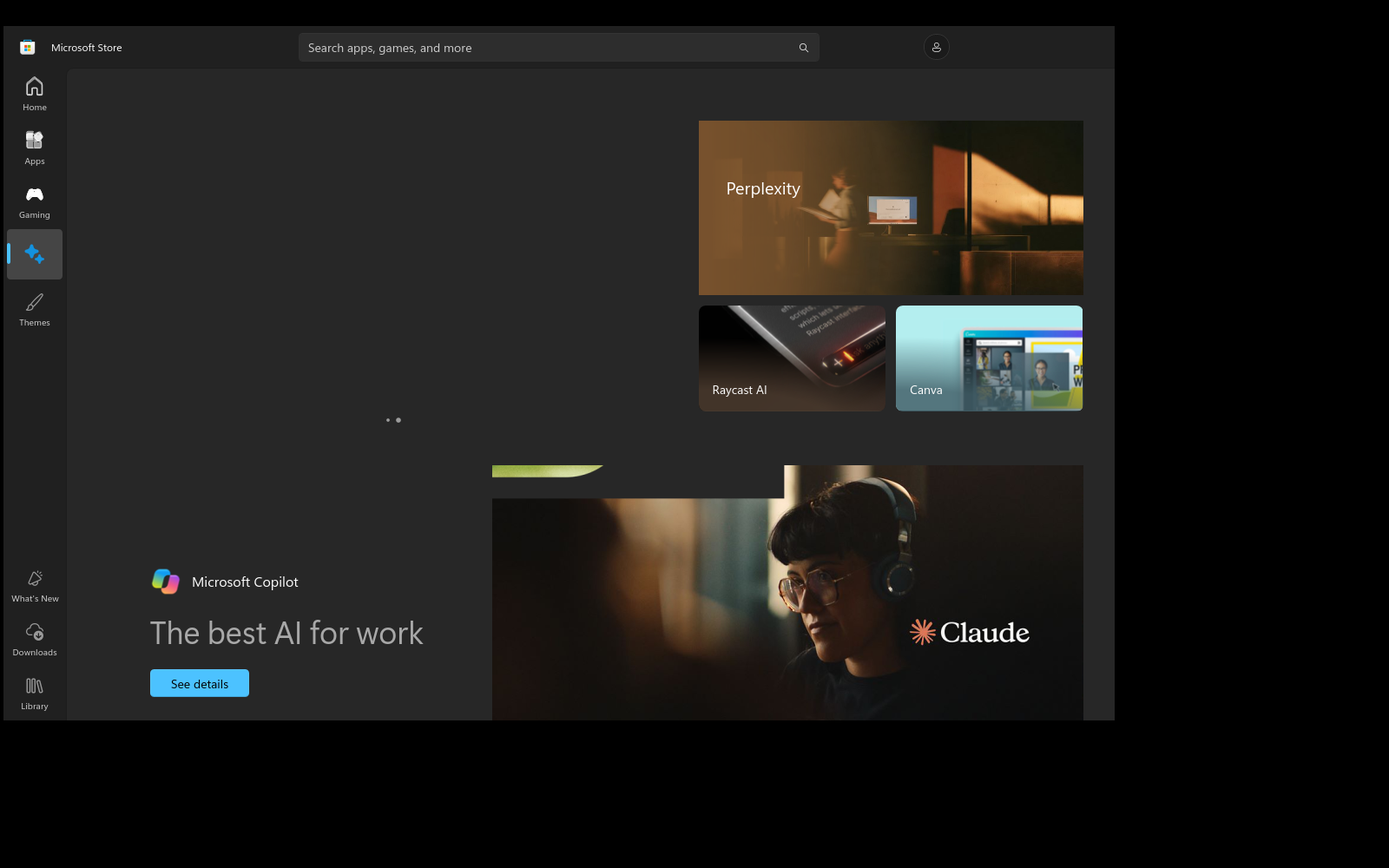
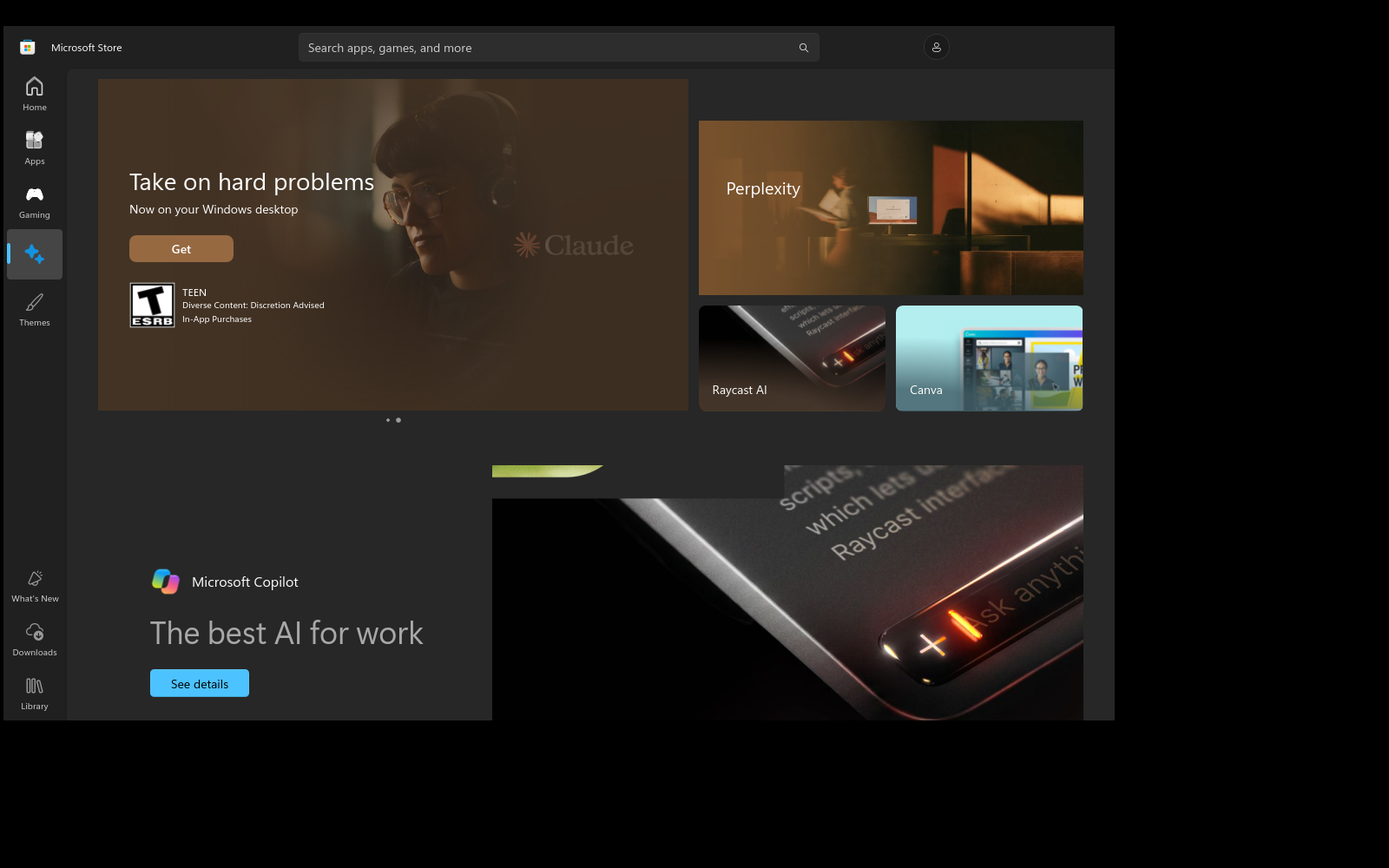
dcomp: The Microsoft Store's Apps, Gaming and AI Hub hero carousels draw.
Their pages were clipped to nothing: the clip read rootProperties.ActualWidth,
whose expression failed on this.Target under the clip, and on the
InteractionTracker it references. The page turn now lands too.

diff --git a/wine/dlls/dcomp/composition.c b/wine/dlls/dcomp/composition.c
@@ -2282,6 +2282,8 @@ struct kf_animation
     INT32 iteration_behavior, stop_behavior, direction, delay_behavior;
     INT32 iterations;
     void *timeline;             /* XAML's clock for it (an anim_instance, SetCustomTimeline), or NULL */
+    ICompositionPropertySet *properties; /* CompositionObject.Properties, kept: expression keys read "this.<name>" from it */
+    WCHAR last_expr[64];        /* the text of the last expression key inserted */
 };
 static struct kf_animation *kf_animation_from( void *animation );
 static BOOL kf_sample( struct kf_animation *kf, float progress, struct kf_key *out );
@@ -3338,6 +3340,9 @@ static HRESULT comp_object_slot_call( unsigned slot, void *iface, void *a, void 
 
     TRACE( "%s %p slot %u a %p b %p from %p: ignored.\n", object->kind, object, slot, a, b,
            __builtin_return_address( 0 ) );
+    if (object->vtbl == (const void **)kf_animation_vtbl && slot >= 7 && slot <= 16)
+        FIXME( "key frame animation %p: ICompositionAnimation slot %u, key %s, ignored.\n", object, slot,
+               debugstr_hstring( a ) );
     /* Fill the out-pointer with a recording object. Preserve a typed object's method layout across
      * private-interface getters: XAML asks an ExpressionAnimation for an internal animation object
      * before it calls ICompositionAnimationBase::CreateAnimatorPartner (slot 3) on that child. */
@@ -14281,7 +14286,7 @@ static HRESULT WINAPI kfa_InsertExpressionKeyFrame( void *iface, float key, HSTR
     BOOL starting = text && !wcsicmp( text, L"this.StartingValue" );
 
     if (!starting)
-        FIXME( "key %f, expression %s: expression key frames are not evaluated.\n", key, debugstr_hstring( expression ) );
+        FIXME( "%p key %f, expression %s: expression key frames are not evaluated.\n", impl, key, debugstr_hstring( expression ) );
     impl->key_count++;
     if (impl->key_count <= KF_KEYS)
     {
@@ -14290,6 +14295,7 @@ static HRESULT WINAPI kfa_InsertExpressionKeyFrame( void *iface, float key, HSTR
         k->key = key;
         k->expr = starting ? KF_EXPR_STARTING : KF_EXPR_OTHER;
     }
+    lstrcpynW( impl->last_expr, text ? text : L"", ARRAY_SIZE(impl->last_expr) );
     return S_OK;
 }
 static HRESULT WINAPI kfa_InsertExpressionKeyFrameWithEasingFunction( void *iface, float key, HSTRING expression,
@@ -14575,7 +14581,9 @@ static void kf_release_paths( struct comp_object *object )
     struct kf_animation *kf = CONTAINING_RECORD( object, struct kf_animation, vtbl );
     unsigned int i;
 
-    if (object->vtbl != (const void **)kf_animation_vtbl || kf->value_kind != KF_PATH) return;
+    if (object->vtbl != (const void **)kf_animation_vtbl) return;
+    if (kf->properties) ICompositionPropertySet_Release( kf->properties );
+    if (kf->value_kind != KF_PATH) return;
     for (i = 0; i < min( kf->key_count, KF_KEYS ); i++)
         if (kf->keys[i].u.path) IUnknown_Release( kf->keys[i].u.path );
 }
@@ -16037,6 +16045,7 @@ static struct matrix_transform *manip_matrix_from_animation( void *animation )
     return manip_matrix_from_object( (IUnknown *)animation, 0 );
 }
 static struct property_set *propset_from_object( IUnknown *object );
+static struct property_set *tracker_property_set( IUnknown *object );
 static struct expr_animation *expr_animation_from_any( void *animation )
 {
     void **vtbl = animation ? *(void ***)animation : NULL;
@@ -16212,6 +16221,8 @@ static BOOL expr_scalar_sum( struct expr_ctx *c, float *out );
  * "ValuePropSet.v + ValuePropSet.o" and animates v; the static value is only where the property started. */
 static BOOL expr_bound_scalar( struct expr_ctx *c, const WCHAR *ref, const WCHAR *prop, float *out )
 {
+    struct comp_clip *saved_clip;
+    BOOL ok;
     struct property_set *set = NULL;
     unsigned int i;
 
@@ -16233,8 +16244,29 @@ static BOOL expr_bound_scalar( struct expr_ctx *c, const WCHAR *ref, const WCHAR
         sub.dmanip = NULL;
         sub.p = bound->expression;
         sub.depth = c->depth + 1;
-        if (!expr_scalar( &sub, out )) return FALSE;
+        /* a clip's edge reading "rootProperties.ActualWidth": the set's own expression knows no clip, and its
+         * "this.Target" is the set (the Microsoft Store's Apps hero: "Lerp(visual.Size.X, this.Target.CollapsedWidth,
+         * ...)" failed on the clip's Left/Top/Right/Bottom, and the page got a zero-width clip) */
+        saved_clip = expr_this_clip;
+        expr_this_clip = NULL;
+        ok = expr_scalar( &sub, out );
+        expr_this_clip = saved_clip;
+        if (!ok)
+        {
+            TRACE_(dcompanim)( "set %p %s: %s not evaluated, stopped at %s\n", set, debugstr_w( prop ),
+                               debugstr_w( bound->expression ), debugstr_w( sub.p ) );
+            if (TRACE_ON(dcompanim))
+            {
+                unsigned int k;
+                for (k = 0; k < bound->ref_count; k++)
+                    TRACE_(dcompanim)( "  ref %s = %p (vtbl %p)\n", debugstr_w( bound->ref_names[k] ), bound->refs[k],
+                                       bound->refs[k] ? *(void **)bound->refs[k] : NULL );
+            }
+            return FALSE;
+        }
         expr_skip_space( &sub );
+        TRACE_(dcompanim)( "set %p %s = %g (%s)%s\n", set, debugstr_w( prop ), *out, debugstr_w( bound->expression ),
+                           *sub.p ? " trailing" : "" );
         return !*sub.p;
     }
     return FALSE;
@@ -16675,6 +16707,8 @@ static struct property_set *propset_from_object( IUnknown *object )
     if (vtbl == (void **)object_view_vtbl) return propset_from_object( impl_from_object_view( object )->owner );
     /* a reference set through its IAnimationObject (ICompositionAnimation4::SetExpressionReferenceParameter) */
     if (vtbl == (void **)anim_object_view_vtbl) return propset_from_object( ((struct anim_object_view *)object)->owner );
+    /* "_interactionTracker.Position.X": a tracker's values and the app's own properties are in its property set */
+    if ((set = tracker_property_set( object ))) return set;
     /* "_.Progress": an expression referencing a visual reads that visual's Properties */
     if (SUCCEEDED( IUnknown_QueryInterface( object, &IID_IInteropVisual_private, &interop ) ))
     {
@@ -22570,6 +22604,20 @@ static HRESULT WINAPI object_view_get_Properties( void *iface, ICompositionPrope
         ICompositionPropertySet_AddRef( (*value = expr->properties) );
         return S_OK;
     }
+    /* a key-frame animation's too: the Microsoft Store's hero carousel inserts TargetValue there and animates its
+     * tracker to "this.TargetValue" */
+    if (view->owner && *(void ***)view->owner == (void **)kf_animation_vtbl)
+    {
+        struct kf_animation *kf = CONTAINING_RECORD( view->owner, struct kf_animation, vtbl );
+        if (!kf->properties)
+        {
+            if (FAILED(hr = create_property_set( &set ))) return hr;
+            if (InterlockedCompareExchangePointer( (void **)&kf->properties, set, NULL ))
+                ICompositionPropertySet_Release( set );
+        }
+        ICompositionPropertySet_AddRef( (*value = kf->properties) );
+        return S_OK;
+    }
     if (!view->properties)
     {
         if (FAILED(hr = create_property_set( &set ))) return hr;
@@ -23570,7 +23618,7 @@ static HRESULT WINAPI interactions_QueryInterface( void *iface, REFIID iid, void
      * ResponsiveItemsRepeaterList casts its tracker to one */
     if (IsEqualGUID( iid, &IID_IAnimationObject_local ))
         return create_anim_object_view( (IUnknown *)&object->vtbl, out );
-    FIXME( "%s: no interface %s.\n", object->kind, debugstr_guid( iid ) );
+    FIXME( "%s: no interface %s (caller %p).\n", object->kind, debugstr_guid( iid ), __builtin_return_address( 0 ) );
     *out = NULL;
     return E_NOINTERFACE;
 }
@@ -23714,8 +23762,14 @@ static const void *sources_vtbl[] =
 static void tracker_sync_properties( struct interactions_object *tracker )
 {
     static const WCHAR positionW[] = L"Position", scaleW[] = L"Scale", minW[] = L"MinPosition", maxW[] = L"MaxPosition";
+    static const WCHAR restingW[] = L"NaturalRestingPosition";
     HSTRING str;
     if (!tracker->properties) return;
+    if (SUCCEEDED( WindowsCreateString( restingW, ARRAY_SIZE(restingW) - 1, &str ) ))
+    {
+        ICompositionPropertySet_InsertVector3( tracker->properties, str, tracker->natural_position );
+        WindowsDeleteString( str );
+    }
     if (SUCCEEDED( WindowsCreateString( positionW, ARRAY_SIZE(positionW) - 1, &str ) ))
     {
         ICompositionPropertySet_InsertVector3( tracker->properties, str, tracker->position );
@@ -23858,6 +23912,8 @@ static void tracker_set_position( struct interactions_object *tracker, Vector3 v
     tracker->position.X = clampf( value.X, tracker->min_position.X, tracker->max_position.X );
     tracker->position.Y = clampf( value.Y, tracker->min_position.Y, tracker->max_position.Y );
     tracker->position.Z = clampf( value.Z, tracker->min_position.Z, tracker->max_position.Z );
+    /* no inertia here: where it is is where it comes to rest */
+    tracker->natural_position = tracker->position;
 }
 
 static HRESULT WINAPI tracker_get_InteractionSources( void *iface, void **value )
@@ -23931,6 +23987,27 @@ static HRESULT WINAPI tracker_TryUpdatePositionBy( void *iface, Vector3 amount, 
     Vector3 value = { tracker->position.X + amount.X, tracker->position.Y + amount.Y, tracker->position.Z + amount.Z };
     return tracker_TryUpdatePosition( iface, value, request );
 }
+/* The last key of a key-frame animation is the expression "this.<name>", and its own Properties hold a Vector3
+ * of that name: where the animation ends. */
+static BOOL kf_vector3_from_this( struct kf_animation *kf, Vector3 *out )
+{
+    struct property_set *set;
+    const WCHAR *name;
+    unsigned int i;
+
+    if (!kf->key_count || kf->keys[min( kf->key_count, KF_KEYS ) - 1].expr != KF_EXPR_OTHER) return FALSE;
+    if (wcsnicmp( kf->last_expr, L"this.", 5 ) || !kf->properties) return FALSE;
+    name = kf->last_expr + 5;
+    if (!*name || wcspbrk( name, L". +-*/()" )) return FALSE;
+    set = CONTAINING_RECORD( kf->properties, struct property_set, ICompositionPropertySet_iface );
+    for (i = 0; i < set->value_count; i++)
+        if (!wcsicmp( set->values[i].name, name ) && set->values[i].type == PROP_VECTOR3)
+        {
+            *out = set->values[i].u.vector3;
+            return TRUE;
+        }
+    return FALSE;
+}
 static HRESULT WINAPI tracker_TryUpdatePositionWithAnimation( void *iface, void *animation, INT32 *request )
 {
     struct interactions_object *tracker = interactions_from( iface );
@@ -23952,6 +24029,12 @@ static HRESULT WINAPI tracker_TryUpdatePositionWithAnimation( void *iface, void 
         !kf->keys[min( kf->key_count, KF_KEYS ) - 1].expr)
     {
         TRACE( "%p animation %p: lands at %g,%g,%g.\n", tracker, animation, key.u.vector3.X, key.u.vector3.Y, key.u.vector3.Z );
+        tracker_set_position( tracker, key.u.vector3 );
+    }
+    else if (kf && kf->value_kind == KF_VECTOR3 && kf_vector3_from_this( kf, &key.u.vector3 ))
+    {
+        TRACE( "%p animation %p: lands at %s = %g,%g,%g.\n", tracker, animation, debugstr_w( kf->last_expr ),
+               key.u.vector3.X, key.u.vector3.Y, key.u.vector3.Z );
         tracker_set_position( tracker, key.u.vector3 );
     }
     else
@@ -24016,6 +24099,16 @@ static const void *tracker_vtbl[] =
     tracker_TryUpdateScaleWithAdditionalVelocity,
 };
 
+/* An InteractionTracker's property set: its own values (tracker_sync_properties) and whatever the app inserted */
+static struct property_set *tracker_property_set( IUnknown *object )
+{
+    struct interactions_object *tracker;
+
+    if (!object || *(const void ***)object != (const void **)tracker_vtbl) return NULL;
+    tracker = interactions_from( object );
+    if (!tracker->properties || *(void ***)tracker->properties != (void **)&propset_vtbl) return NULL;
+    return CONTAINING_RECORD( tracker->properties, struct property_set, ICompositionPropertySet_iface );
+}
 static HRESULT create_interaction_tracker( IUnknown *owner, void **out )
 {
     struct interactions_object *tracker;

diff --git a/AGENTS.md b/AGENTS.md
@@ -1293,7 +1293,7 @@ the fully-qualified name. `--grep` first, always.
 | Xbox app (GamingApp) | Staged as `xbox`. On the **builtin** `windows.web` (no native Windows.Web.dll) it reaches its own home screen after **Browse app** on the sign-in gate (`docs/screenshots/xbox-home-builtin-windows-web.png`). Gaming Services and Windows.System.User are stand-ins. Still open: the nav icons for My Library, Cloud Gaming and Store, the faded banners, sign-in, and the Store hero video. Findings-M4 2026-10-14 (night). **Sign in** (10-15): `dlls/winexboxauth` (C++ `shims/xboxauth` until 10-21; traces `WINEDEBUG=+xboxauth`) stands in for `XboxAuthManager` with a Microsoft account device-code sign-in in the user's browser (`microsoft.com/link?otc=<code>`) and real Xbox Live user/XSTS tokens; verified up to the device code and the browser launch, the account step needs a human. Refresh token in `%LOCALAPPDATA%\wineuwp\xboxauth.bin`. Findings-M4 2026-10-15. **Requests are signed** (10-15, ported from xal-rs): a per-prefix P-256 proof key, a real device token, SISU authorize, device/title-bound XSTS and a `Signature` on every token request with a policy; the signing is proven against `device.auth.xboxlive.com` (signed 200, unsigned 400, one bit flipped 403). SISU with a real account works (10-15, Android device token). **Store account and Gaming Services** (10-15): `dlls/winexboxauth` also serves `WebAuthenticationCoreManager` and `StoreConfiguration` (the Store account is the same Microsoft account; its WebAccount.Id is the PUID), so Settings > Account has no mismatch; `dlls/winegameplatform` (C++ `shims/gameplatform` until 10-21; traces with `WINEDEBUG=+gameplatform`) covers every Gaming Services client class (traced, table from `gen-gameplatform.py`) with install locations, update settings, `Package.Create`, `Store.QueryProductDetails` and content access, so Install Options loads and game pages show Get/Buy. Findings-M4 2026-10-15 (Store account). **Friends list and bright game pages** (10-15, dcomp facade expressions, dwrite). **Installs and plays a game** (10-15 night): Get opens the real Store purchase dialog through a WebView2 runtime from the ISO (`dlls/webview2host`, C++ `shims/webview2` until 10-21, hosts it windowed in a popup; traces `WINEDEBUG=+webview2`; shown on screen and closable on 10-21, `docs/screenshots/xbox-purchase-dialog-on-screen.png` - an earlier "black on screen" was `xwd -root` misreading the popup, see the capture trap below), Install downloads through FE3 and `install-app.py` into `uwp-bin/xbox-games/stage`, the page shows Downloading then Play, and Play starts Microsoft Solitaire Collection 4.27 (`docs/screenshots/xbox-install-downloading.png`, `xbox-install-ready-to-play.png`, `xbox-play-launches-solitaire.png`). Run the Xbox app with plain `err+all` when testing Play: the game inherits `WINEDEBUG`, and `trace+tracelogging` makes Solitaire fault. Open: library box art. Pause/Resume retains the queue row, displays Download paused and offers Resume; three virtual-desktop UI cycles preserve offsets with stable installation/package identities. Queued Package.QueryDetails must return unregistered, not fully streamed metadata: GP_E_NO_SERVICE there aborts the native paused-state update (Findings-M4 2026-10-16, paused-row investigation). `install-app.py` now locks staging per package and cleans only its own scratch entry, preventing failed installs from deleting another install's work. A synthetic stale-file repro and virtual Halo install passed the former failure point; the queue reached Download paused and Resume worked at 31% (`docs/screenshots/xbox-install-staging-paused.png`; Findings-M4 2026-10-16, install error). The desktop app was relaunched with the rebuilt shim on 10-16. Premium, Game Pass and direct Win2D geometry marks now share bounded supersampling; scaled composition surfaces use source-footprint filtering. Verified on virtual desktops with fill/stroke, clip/transform/DPI probes; the tested D2D/DComp DLLs are in the standard Wine build. Desktop Home was visually confirmed after relaunch with these DLLs (Findings-M4 2026-10-16, Game Pass). **Manage > Add-ons Apply changes** (10-16): fixed the installed-drive lookup. Package.QueryInstallPath returns Z:, but storage enumeration previously exposed only C:, so the React Native Apply callback returned at its installed-drive Content guard. Storage now exposes the actual host data drive and filters content by device. Two virtual UI runs select Campaign, close Manage on Apply and queue PackageRequest.ConfigureFeatures(CampaignS1); this uses StartItemInstall, not PackageUpdate.StartUpdateAsync. Tested at 0 B, paused and canceled rather than downloading the whole payload (`docs/screenshots/xbox-campaign-apply-queued-paused.png`). General's update-priority control also loads and persists through Customization.QueryGameProps/SetGameProps (`docs/screenshots/xbox-game-priority-persisted.png`). **Cancellation** (10-16): cancel now signals the real host Python PID and waits for the shell EXIT record; terminating only the Wine launcher had left a paused Python child alive. The virtual UI cancel test emptied the queue, logged EXIT 143 and confirmed that exact Python PID was gone (`docs/screenshots/xbox-campaign-change-canceled.png`). The host installer reports its PID only for installs; --info remains JSON. Findings-M4 2026-10-16 (Apply/host cancellation). **MSIXVC (GDK) packages**: the package list, CDN download, content keys (our own Windows device licence, `dlls/winexboxauth/windevice.c`) and our GDK runtime all work: see the Bad Magpie and Halo rows. Xodus was only a protocol reference and is no longer kept here; the Xodus Nexus launcher was tried on 10-19 and dropped (it plays only from its own streaming container). Findings-M4 2026-10-15 (night) |
 | Halo Infinite (GDK, Xbox app install) | **Campaign plays without HD1** (10-18, `docs/screenshots/halo-campaign-in-game.png`): launch with `UWP_STAGE=254428597cfe2 WINE_BUILD=uwp-bin/wine-build-wow64 WINE_HACK_NATIVE_SYSCALLS=1` on `uwp-bin/prefix-pause-ui30`, title -> Campaign -> New Game -> map. **Multiplayer matchmakes and plays online** (`docs/screenshots/halo-multiplayer-in-match.png`). Sign-in uses the Store account; the Store-user mismatch notice at start-up is still open. Findings-M4 2026-10-18. **From a fresh prefix** (10-19, `docs/screenshots/halo-fresh-prefix-main-menu.png`): `new-prefix.sh`, Xbox app install, `install-d3d-runtime.sh`, then Play (`wineuwp-launch.exe`) reaches the online main menu with no hand-made files |\n| Bad Magpie Demo (GDK, Game Pass) | **Installs from the Xbox app and runs, in game** (10-15, `docs/screenshots/badmagpie-gdk-running.png`): the first GDK title on Linux here. The `.msixvc` comes from `packagespc.xboxlive.com` (signed XBL request), its content key from our own Windows device licence and `licensing.mp.microsoft.com` (`dlls/winexboxauth/windevice.c`), and the installer (`dlls/appxinstall`, called by `dlls/winegameplatform`; formerly `install-app.py`) decrypts the XVD (XTS per 4096-byte page, data unit from the L0 hash entry) and lays the files out from `SegmentMetadata.bin`. Reinstalled through the C installer on 10-19 (`docs/screenshots/badmagpie-c-installer-running.png`). EAppx (Resident Evil 7) uses the same licence path and the EXBH/EXPH reader; its install is not yet run end to end. **The device registration takes a slot in the account's device group (it was full once); one per prefix, kept in `xboxauth.bin`** |
 | Packaging | **One AppImage**, in the separate `../shapr3d-linux` repo since 10-11 (github.com/designgears/shapr3d-linux; its README; the runtime it carries is `packaging/` here). Bottles was dropped on 10-11. One freedesktop SDK build (flatpak-builder) makes both the AppImage and a Flatpak bundle (`io.github.designgears.Shapr3DLinux`), both attached to each release; glibc 2.38 floor. The installer is Rust + Slint, styled after Shapr3D, with no secondary text (`../shapr3d-linux/docs/screenshots/installer/`); the AppImage was re-run on 10-11 from an empty data directory with the real ISO download and the real Shapr3D bundle, to the sign-in screen on `:0`. `appimage/smoke.sh` sets an AppImage up from an empty data directory on its own Xvfb and requires Shapr3D's first screen (passed on 10-11 in 27 s). Opening the AppImage (or `wine-uwp` with no command) shows the installer, which once set up is the launcher: version, Launch and Update... (pick a newer package; `wine-uwp setup PACKAGE` on an installed setup goes straight there). The package may be the vendor's `.appinstaller` (Shapr3D's download page hands one out): only its main bundle is used, read from the server with range requests (1.8 GB streamed in ~50 s, no temporary file), never its `<Dependencies>`; frameworks always come from the ISO, falling back to an older version than the package asks for. Its URI is kept in `stage/APP/.wine-uwp-appinstaller`, and the launcher page offers `Update to X` when it serves a newer version. **Shapr3D 26.180 needs VCLibs 14.0.33728 (STL 14.40, constexpr `std::mutex`); the ISO's 14.0.30704 `msvcp140_app` NULL-derefs in `_Mtx_lock`.** Our Wine builds `msvcp140_app` from msvcp140's sources and `launch-defaults.env` sets `msvcp140_app=b` (Calculator AE 0 and `kb` identical on it). An update unpacks to `stage/APP.new` and swaps it in at the end, refuses while the app's run lock is held, and keeps sign-in and projects (they live in the prefix under the package family name). The menu entry (`run APP`) is written on install and refreshed each time the installer opens. A plain `wine wineuwp-launch.exe` starts an installed app with no `run.sh`. Released through `release.sh` up to 0.0.3-beta (10-12), which the user checked on `:0`: launch, browser sign-in, update. **An AppImage started from inside another (the launcher's Launch is `$APPIMAGE run`) must not re-save the host environment**: in 0.0.2 it saved the launcher's bundled paths, xdg-open then got a dead mount's libraries, and the app ran on the system Wine and outlived its wineserver as a windowless orphan holding the run lock. `AppRun` keeps the first `WINE_UWP_HOST_*`. `wine-uwp stop` closes a running app through `logs/.APP.stop` |
-| Microsoft Store | Staged as `store` (prefix `uwp-bin/prefix-store`, build `uwp-bin/wine-build-wow64`, the Media Player switches). **Updates itself in-app**: Library > Get updates goes through `shims/appinstallmanager` (catalogue + FE3 + `appxinstall.dll` into its own stage; 22401 -> 22609 again on 10-20, `docs/screenshots/msstore-c-installer-updated.png`) and installed 22608.1401.7.0 over the ISO's 22401 (old stage kept as `stage/store.pre-update-22401`). 22608's Home page paints real content (`docs/screenshots/msstore-22608-home.png`); start-up takes ~2-3 minutes; Apps, Gaming and AI Hub load since 10-25 (Wine's xmllite read UTF-16 input twice from the second chunk on, and XAML parses `XamlReader.Load` text as UTF-16: `docs/screenshots/msstore-22608-apps-page.png`); their left hero carousel is still empty. Findings-M4 2026-10-19 **Home (10-25)**: nav rail Lottie icons, app tile icons, hero cards and hero picture drawn (CompositionVisualSurface, effect brushes, clip edge expressions, step easing, simple geometries, path animations in dcomp). Blank starts (~1 in 5) fixed in wineuwp (`in_app_code`). Home now matches Windows (`docs/screenshots/msstore-22608-home-complete.png`). Test with `uwp-bin/wine-build-store` until merged into the shared builds. Findings-M4 2026-10-25 |
+| Microsoft Store | Staged as `store` (prefix `uwp-bin/prefix-store`, build `uwp-bin/wine-build-wow64`, the Media Player switches). **Updates itself in-app**: Library > Get updates goes through `shims/appinstallmanager` (catalogue + FE3 + `appxinstall.dll` into its own stage; 22401 -> 22609 again on 10-20, `docs/screenshots/msstore-c-installer-updated.png`) and installed 22608.1401.7.0 over the ISO's 22401 (old stage kept as `stage/store.pre-update-22401`). 22608's Home page paints real content (`docs/screenshots/msstore-22608-home.png`); start-up takes ~2-3 minutes; Apps, Gaming and AI Hub load since 10-25 (Wine's xmllite read UTF-16 input twice from the second chunk on, and XAML parses `XamlReader.Load` text as UTF-16: `docs/screenshots/msstore-22608-apps-page.png`); their hero carousels draw (InteractionTracker property sets in expressions, key-frame animations' own Properties). Their right-hand card column sits 48 px low, and Gaming's lower panel stays a skeleton. Findings-M4 2026-10-19 **Home (10-25)**: nav rail Lottie icons, app tile icons, hero cards and hero picture drawn (CompositionVisualSurface, effect brushes, clip edge expressions, step easing, simple geometries, path animations in dcomp). Blank starts (~1 in 5) fixed in wineuwp (`in_app_code`). Home now matches Windows (`docs/screenshots/msstore-22608-home-complete.png`). Test with `uwp-bin/wine-build-store` until merged into the shared builds. Findings-M4 2026-10-25 |
 | Shapr3D | **Models, syncs and exports** (`docs/screenshots/shapr3d-extruded-body.png`): sketch -> extrude -> Visualization, toolbar and menus, cloud upload of revisions and thumbnails, **File > Export to > STL** and **Drawings -> Create Drawing -> Export drawing (PDF)** both write correct files (`docs/screenshots/shapr3d-drawing-pdf.png`). The file pickers (`dlls/windows.storage.pickers`) show Wine's common Open/Save/folder dialogs (starting in Documents, or the app's SuggestedStartLocation); `probe-pickers.exe` checks them without an app. For scripted runs, `WINE_UWP_PICKER_FILE` / `WINE_UWP_PICKER_SAVE_FILE` still bypass them, and `WINE_UWP_PICKER_NODIALOG=1` makes an unstaged pick report a cancel. On `:98` the dialog is its own top-level window ("Open" / "Save As"), captured with `xwd -id`. Type into it with plain `xdotool type` after a click, not `--window`. The colon needs `xdotool key colon`, and Ctrl+A does not select the combo box text. Signs in once (Log In -> `./browser-callback.sh shapr3d`, a human solves the reCAPTCHA, run with `WINE_UWP_LAUNCHER=log`) and stays signed in. Project thumbnails and material swatches show (`docs/screenshots/shapr3d-project-thumbnails.png`, `shapr3d-used-material-swatches.png`). The save dialog offers the app's `FileTypeChoices` (Screenshot -> Capture: JPEG, PNG; `docs/screenshots/shapr3d-capture-output.png`). **The prefix's `Documents`, `Desktop` and `Pictures` are symlinks to the user's real home folders**, which is where the dialogs start - save test output to `C:\users\Public\` instead. Share -> copy link puts the project URL on the clipboard (`docs/screenshots/shapr3d-share-copy-link.png`); the share-sheet button does nothing (there is no share host). Typed dimensions work while sketching (`docs/screenshots/shapr3d-dimension-entry.png`); drive them with `xdotool type --delay 250`, because at the default 12 ms the key after the one that opens the field is lost. Start -> Visualization -> import Drone passes **30/30** (`docs/screenshots/shapr3d-import-soak-30of30.png`); it was about 3 in 4 before 09-24. Leaving the editor no longer kills it: 30 leaves in 10 runs, against 6 deaths in 10 runs before (`docs/screenshots/shapr3d-home-after-leaving.png`). Extrude/offset drags on the drone at the user's 3440x1366 no longer starve the UI thread (it used 1.95 s of CPU in a 2 s drag, now ~0.3 s; the result lands ~0.3-0.8 s after release instead of 1-2 s); with continuous input the drone's preview refreshes every ~78 ms, bound by Parasolid (Wine ~11% of it), see Findings-M4 2026-09-25. Menus open with Windows' own animation now (key frames run live, with their easing, and the reveal clip slides with them): the first frame ~45 ms after the press, mostly out by ~60-90 ms, settled ~300 ms (`docs/screenshots/shapr3d-file-menu-reveal.png`). History chevrons turn > to v and back (`docs/screenshots/shapr3d-chevron-turn.png`). Wheel over a panel no longer reaches the viewport (it did ~1 in 15 at 175 Hz before 09-25's hit-test fix; 0 in 600 since). History moving after Edit... -> Cancel is the app re-creating its uncached page and scrolling the selected row into view (Findings-M4, 2026-09-26). The view cube popup lays its page out below its tabs from the first frame (`docs/screenshots/shapr3d-viewcube-open.png`). The viewport keeps moving while the editor is built after a project opens (worst gap ~60 ms, was 250-350) and runs at 166-176 frames a second on the user's own 175 Hz display, measured there (`docs/screenshots/viewport-after-open-round2.png`; the X server keeps up, `trace+x11perf`). Cloud sync no longer kills it: `CoWaitForMultipleObjects`, called by Windows.Web.Http, is implemented. Materials drag and drop onto the model with the dragged row following the pointer (`docs/screenshots/shapr3d-drag-visual.png`; `dlls/dataexchange/dragoperation.c`, an in-process drag loop), XAML keeps repainting afterwards, and the swatches no longer flicker grey. Flyouts, menus and dropdowns are windows of their own (painted by dcomp's `hwnd_target`s), by default since 09-28; `WINE_UWP_WINDOWED_POPUPS=0` turns that off. They used to cause a blank start-up about 1 time in 8, which was the missing CoreMessaging wake. The Share button keeps a 10 px margin from the window edge, lined up with the panels (`wineuwp` pushes the title bar insets; `docs/screenshots/shapr3d-share-inset.png`). Selecting a folder no longer draws the rebuilt toolbar at the window origin, and Settings sections cross-fade instead of overlapping (`docs/screenshots/shapr3d-settings-crossfade.png`). In-app tutorials play, and XAML's transport controls (pause, resume, +30 s, full screen) work; subtitles are not drawn yet (Findings-M4, 2026-10-19). |
 
 The three Media Player switches are opt-in only because the other apps have not been tested against

diff --git a/docs/Findings-M4.md b/docs/Findings-M4.md
@@ -13432,6 +13432,37 @@ been run.
 Regression on `prefix-test` with `wine-build-store`: calc AE 3924.73, mp 236, as before; fh 1 colour with 16
 fail-fasts, identical on the control `wine-build-wow64` (the known Feedback Hub failure).
 
-Still open on these pages: the large hero carousel on the left is empty on all three (Home draws its own), Gaming's
-lower panel is still a skeleton 40 s after the click, and AI Hub's lower banner is drawn with a notch cut from its
-top-left corner and a green sliver above it.
+Still open on these pages: Gaming's lower panel is still a skeleton 40 s after the click, and AI Hub's lower banner is
+drawn with a notch cut from its top-left corner and a green sliver above it. The hero carousel: next section.
+
+### Microsoft Store: the hero carousels on Apps, Gaming and AI Hub (2026-10-25)
+
+`docs/screenshots/msstore-22608-apps-page.png` (WhatsApp), `-gaming-page.png`, `-aihub-page.png` (Claude): the big
+hero on the left draws. Before, it was one flat colour on all three pages.
+
+- `+dcompops`: the three pages' pictures were emitted with clip `(0,0)-(0,0)` and dropped. Their RectangleClip's
+  Left and Right both came to 339.765 (`(visual.Size.X - Min(visual.Size.X, rootProperties.ActualWidth)) / 2`), so
+  `rootProperties.ActualWidth` read 0.
+- New `trace+dcompanim` lines from `expr_bound_scalar` (each property-set expression's value, or where it stopped,
+  with its references): `ActualWidth = Lerp(visual.Size.X, this.Target.CollapsedWidth, Abs(...))` stopped after
+  `this.Target.CollapsedWidth`, although the set had `CollapsedWidth = 322` (`trace+dcompshape` shows the inserts).
+  **The clip's own `this.Target` handling was still active inside the set's expression**: evaluated from a clip edge,
+  `this.Target.` took the clip branch, which knows only Left/Top/Right/Bottom. Nested bindings now run without the
+  clip.
+- `_interactionTracker.Position.X` did not evaluate either: `propset_from_object` knew no InteractionTracker, so the
+  tracker's property set (Position, MinPosition, MaxPosition, Scale, and the app's own ScrollableWidth...) was
+  unreachable; its fallback QI for `IDCompositionVisualPartnerWinRTInterop` `{fe93b735}` is where 37,000
+  `InteractionTracker: no interface` lines a run came from. Trackers now answer with their set, which also gains
+  NaturalRestingPosition (the position: no inertia here).
+- The carousel's page turn is `TryUpdatePositionWithAnimation` with a Vector3 key-frame animation whose only key is
+  `this.TargetValue`, and the Store puts TargetValue in the animation's own `Properties`
+  (`WinStore.App.dll+0x1529480`: `InsertVector3("TargetValue", (x, 0, 0))`). A key-frame animation's Properties were a
+  new set per `ICompositionObject` view, so the value was lost, and the tracker retried 70 times. The animation now
+  keeps one set, remembers its last expression key's text, and the tracker lands at `this.<name>` from it:
+  679.53, 1359.06, 2038.59 ..., a page at a time.
+
+Regression on `prefix-test` with `wine-build-store`: calc AE 3924.73, mp 236, sol 3/3 not reached (as on the control
+build).
+
+Still open: on Apps, Gaming and AI Hub the right-hand column of cards starts 48 px below the hero (Home lines them
+up), Gaming's lower panel, and AI Hub's lower banner.
